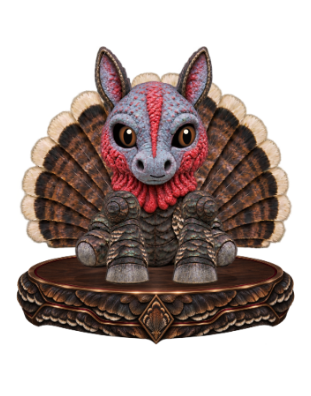
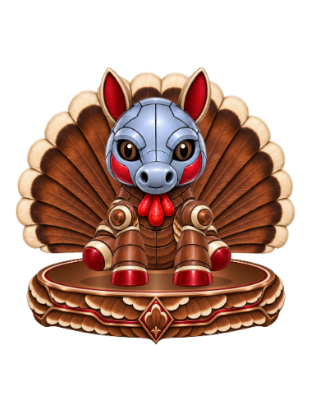
Refresh animated turkey Colt skin and matching display artwork

diff --git a/pet-studio.js b/pet-studio.js
@@ -69,7 +69,7 @@ function sync(){
 function heading(title,description,badge=''){return '<div class="section-heading"><div><h3>'+title+'</h3><p>'+description+'</p></div>'+(badge?'<span class="count">'+badge+'</span>':'')+'</div>'}
 function category(name){if(current==='nugget')return 'Food';if(current==='saber'||current==='highland')return 'Animals';if(current==='roblox')return 'Block characters';if(current==='labubu')return 'Plush';if(current==='eagle')return 'Birds';if(current==='gummy')return 'Candy';if(/Jack|Thanksgiving/.test(name))return 'Seasonal';if(/Axolotl|Panda|Tiger|Snake|Zebra|Crocodile|Camo/.test(name))return 'Animals';if(/Glitter|Metallic|Chrome|Copper|Bronze|Royal|Gold/.test(name))return 'Metallic';return 'Fantasy'}
 function skinItems(){return current==='nugget'?Object.entries(nuggetSkins).map(([id,s])=>({id,label:s.label})):current==='saber'?Object.entries(saberSkins).map(([id,s])=>({id,label:s.label})):current==='highland'?[{id:'Copper',label:'Copper Highland Cow'}]:current==='roblox'?Object.keys(robloxSkins).map(id=>({id,label:id})):current==='labubu'?Object.keys(labubuSkins).map(id=>({id,label:id})):current==='eagle'?[{id:'Bald Eagle',label:'Bald Eagle'}]:current==='gummy'?Object.keys(gummyBearSkins).map(id=>({id,label:id})):current==='colt'?Object.keys(roboColtSkins).map(id=>({id,label:id})):squishyColors}
-function gallery(){const items=skinItems().filter(x=>(filter==='All'||category(x.label)===filter)&&x.label.toLowerCase().includes(query.toLowerCase()));const chosen=current==='squishy'?state.squishy.color:current==='roblox'&&robloxOutfit(state.roblox)==='Custom outfit'?null:state[current].skin;dialog.querySelector('#gallery').innerHTML=items.map(x=>'<button class="skin-card" data-skin-choice="'+esc(x.id)+'" aria-pressed="'+(x.id===chosen)+'">'+(current==='nugget'?'<img data-nugget-thumb="'+esc(x.id)+'" alt="" loading="lazy">':current==='saber'?'<img src="'+esc(saberSkins[x.id].art)+'" data-saber-skin="'+esc(x.id)+'" alt="" loading="lazy">':current==='highland'?highlandMarkup().replace(/id="highland-/g,'id="highland-thumb-').replace(/url\(#highland-/g,'url(#highland-thumb-').replace('<svg ','<svg class="highland-skin-thumb" ').replace(/<text[\s\S]*?<\/text>/g,''):current==='labubu'?labubuThumbnail(x.id):'<img src="assets/pet-studio/'+current+'-'+slug(x.id)+'.png?v='+(current==='roblox'?'20261025-wardrobe-v3':current==='colt'&&x.id==='Thanksgiving Turkey'?'20261109-turkey-thumb-size-v4':'20261024-transparent')+'" alt="" loading="lazy">')+'<span class="skin-name">'+esc(x.label)+'</span>'+(chosen===x.id?'<span class="check" aria-hidden="true">✓</span>':'')+'</button>').join('')||'<div class="empty">No matching skins. Try another search.</div>';dialog.querySelectorAll('[data-skin-choice]').forEach(b=>b.onclick=()=>{change(current==='squishy'?'color':'skin',b.dataset.skinChoice);gallery()});if(current==='nugget')dialog.querySelectorAll('[data-nugget-thumb]').forEach(img=>{nuggetThumbnail(img.dataset.nuggetThumb).then(url=>{if(img.isConnected)img.src=url}).catch(()=>{if(img.isConnected)img.alt='Skin preview unavailable'})});}
+function gallery(){const items=skinItems().filter(x=>(filter==='All'||category(x.label)===filter)&&x.label.toLowerCase().includes(query.toLowerCase()));const chosen=current==='squishy'?state.squishy.color:current==='roblox'&&robloxOutfit(state.roblox)==='Custom outfit'?null:state[current].skin;dialog.querySelector('#gallery').innerHTML=items.map(x=>'<button class="skin-card" data-skin-choice="'+esc(x.id)+'" aria-pressed="'+(x.id===chosen)+'">'+(current==='nugget'?'<img data-nugget-thumb="'+esc(x.id)+'" alt="" loading="lazy">':current==='saber'?'<img src="'+esc(saberSkins[x.id].art)+'" data-saber-skin="'+esc(x.id)+'" alt="" loading="lazy">':current==='highland'?highlandMarkup().replace(/id="highland-/g,'id="highland-thumb-').replace(/url\(#highland-/g,'url(#highland-thumb-').replace('<svg ','<svg class="highland-skin-thumb" ').replace(/<text[\s\S]*?<\/text>/g,''):current==='labubu'?labubuThumbnail(x.id):'<img src="assets/pet-studio/'+current+'-'+slug(x.id)+'.png?v='+(current==='roblox'?'20261025-wardrobe-v3':current==='colt'&&x.id==='Thanksgiving Turkey'?'20261109-turkey-finish-v6':'20261024-transparent')+'" alt="" loading="lazy">')+'<span class="skin-name">'+esc(x.label)+'</span>'+(chosen===x.id?'<span class="check" aria-hidden="true">✓</span>':'')+'</button>').join('')||'<div class="empty">No matching skins. Try another search.</div>';dialog.querySelectorAll('[data-skin-choice]').forEach(b=>b.onclick=()=>{change(current==='squishy'?'color':'skin',b.dataset.skinChoice);gallery()});if(current==='nugget')dialog.querySelectorAll('[data-nugget-thumb]').forEach(img=>{nuggetThumbnail(img.dataset.nuggetThumb).then(url=>{if(img.isConnected)img.src=url}).catch(()=>{if(img.isConnected)img.alt='Skin preview unavailable'})});}
 function choices(key,items){const selected=current==='roblox'&&['top','pants'].includes(key)&&(!state[current][key]||state[current][key]==='skin')?state[current].skin:state[current][key];return '<div class="choices">'+items.map(([id,label])=>'<button data-choice-key="'+key+'" data-choice="'+id+'" aria-pressed="'+(selected===id)+'">'+label+'</button>').join('')+'</div>'}
 function toggle(key,label,desc){return '<label class="option-row"><span><strong>'+label+'</strong><p>'+desc+'</p></span><input type="checkbox" data-toggle="'+key+'" '+(state[current][key]?'checked':'')+'></label>'}
 function render(){content.setAttribute('aria-labelledby','studio-tab-'+tab);dialog.querySelectorAll('[data-tab]').forEach(b=>{b.setAttribute('aria-selected',b.dataset.tab===tab);b.tabIndex=b.dataset.tab===tab?0:-1});const p=state[current];

diff --git a/robo-colt/skins.js b/robo-colt/skins.js
@@ -1,6 +1,6 @@
 /* Skins use fitted painted atlases or original-art filters; accessories remain independent. */
 window.roboColtSkins = {
- 'Thanksgiving Turkey':{accent:'#b99958',light:'#f6e8ca',dark:'#55442b',tint:[.5,.36,.2],armor:[.8,.8,.72],artwork:'robo-colt/parts-turkey-v4.png',platformArtwork:'robo-colt/platform-turkey-v1.png',nameplateArtwork:'robo-colt/nameplate-turkey-v1.png',bounds:[[114,7,620,677],[846,161,1056,651],[208,698,433,1190],[480,700,1238,1192]],face:{eyes:[[277,276],[464,276]],mouth:[371,399,.85]},description:'Realistic charcoal turkey plumage, cream-barred feathers, blue-and-red facial skin, and a feathered tail on the original Robo-Colt shape.'},
+ 'Thanksgiving Turkey':{accent:'#b99958',light:'#f6e8ca',dark:'#55442b',tint:[.5,.36,.2],armor:[.8,.8,.72],artwork:'robo-colt/parts-turkey-v6.png',platformArtwork:'robo-colt/platform-turkey-v2.png',nameplateArtwork:'robo-colt/nameplate-turkey-v2.png',bounds:[[112,1,610,677],[835,156,1060,655],[206,696,432,1194],[484,706,1232,1195]],face:{eyes:[[266,277],[452,277]],mouth:[358,399,.85]},description:'Blue-silver face plates, feather-textured bronze armor, crimson hooves and wattle, and a cream-tipped turkey fan on the original animated Robo-Colt model.'},
  Axolotl:{accent:'#ff79ad',light:'#fff0f6',dark:'#a73064',tint:[1,.32,.56],armor:[1.1,.92,1.02],artwork:'robo-colt/parts-axolotl-v1.png',bounds:[[144,18,632,672],[880,167,1094,649],[219,708,450,1193],[740,731,1196,1174]],face:{eyes:[[295,276],[484,276]],mouth:[390,400,1]},description:'Pearl-pink robot enamel, rosy freckles, and three feathery pink axolotl frills on each side.'},
  'Jack-o-Lantern':{accent:'#ffa42e',light:'#fff3a1',dark:'#a14a0f',tint:[1,.42,.035],armor:[.9,.76,1.05],artwork:'robo-colt/parts-jack-o-lantern-v4.png',bounds:[[127,15,642,677],[873,171,1084,653],[220,692,452,1195],[763,730,1187,1172]],description:'Hollow carved pumpkin armor with one warm inner glow, dimming for sleep and brightening on wake.'},
  Glitter:{accent:'#ffd65c',light:'#fffbe1',dark:'#9c681c',tint:[1,.72,.16],armor:[1.1,1.06,.92],artwork:'robo-colt/parts-glitter-v1.png',bounds:[[127,17,609,672],[851,165,1059,648],[209,699,434,1191],[761,734,1185,1170]],description:'Reflective gold-flake enamel, champagne sparkles, and polished graphite joints.'},
@@ -36,6 +36,8 @@ window.createRoboColtSkinPainter = function(pet){
  const tailSvg=pet.querySelector('#rc-tail svg'),tailGroup=pet.querySelector('#rc-tail');
  const tailLayout=Object.fromEntries(['x','y','width','height','viewBox'].map(key=>[key,tailSvg.getAttribute(key)]));
  const tailOrigin=tailGroup.style.transformOrigin;
+ const headClip=pet.querySelector('#rc-head-clip path'),torsoClip=pet.querySelector('#rc-torso-clip path');
+ const headOutline=headClip.getAttribute('d'),torsoOutline=torsoClip.getAttribute('d');
 
  // Position wrappers stay outside the blinking/scaling groups so animation
  // transforms cannot overwrite each artwork's facial alignment.
@@ -117,9 +119,12 @@ window.createRoboColtSkinPainter = function(pet){
   if(last===skin)return skin;last=skin;
   const turkey=name===turkeyName;
   pet.querySelector('#rc-neck-joint').style.display=turkey?'none':'';
-  const tail=turkey?{x:-60,y:70,width:850,height:570,viewBox:'470 690 780 520'}:tailLayout;
+  const tail=turkey?{x:-103,y:13,width:935,height:627,viewBox:'470 690 780 520'}:tailLayout;
   Object.entries(tail).forEach(([key,value])=>tailSvg.setAttribute(key,value));
   tailGroup.style.transformOrigin=turkey?'365px 640px':tailOrigin;
+  // The larger wattle belongs to the animated head, including its lower lobes.
+  headClip.setAttribute('d',turkey?'M0 0H700V425H470Q445 440 420 446V530H292V446Q278 438 264 425H0Z':headOutline);
+  torsoClip.setAttribute('d',turkey?'M0 425H264Q278 438 292 446V530H420V446Q445 440 470 425H650V685H0Z':torsoOutline);
 
   const face=skin.face||facePositions[name]||(skin.bounds?{eyes:[[274,276],[458,276]],mouth:[367,400,1]}:null);
   const bodyFit=fit(name,0);

diff --git a/index.html b/index.html
@@ -52,7 +52,7 @@
   <script src="dumpling-pet/accessories.js?v=20261018-accessory-fit-v19"></script>
   <script src="dumpling-pet/nameplate.js?v=20261031-deferred-art-v1"></script>
   <meta data-pet-runtime="colt" data-pet-runtime-style="robo-colt/interactive.css?v=20261109-turkey-live-size-v1">
-  <meta data-pet-runtime="colt" data-pet-runtime-script="robo-colt/skins.js?v=20261109-turkey-eyes-v1">
+  <meta data-pet-runtime="colt" data-pet-runtime-script="robo-colt/skins.js?v=20261109-turkey-finish-v6">
   <meta data-pet-runtime="colt" data-pet-runtime-script="robo-colt/accessories.js?v=20261031-lazy-accessories-v1">
   <meta data-pet-runtime="colt" data-pet-runtime-script="robo-colt/nameplate.js?v=20261109-turkey-v1">
   <meta data-pet-runtime="colt" data-pet-runtime-script="robo-colt/interactive.js?v=20261109-turkey-fan-v1">
@@ -88,7 +88,7 @@
   <meta data-pet-runtime="nugget" data-pet-runtime-script="nugget-pet/accessories.js?v=20261101-basket-sides-v1">
   <meta data-pet-runtime="nugget" data-pet-runtime-script="nugget-pet/rig.js?v=20261101-basket-sides-v7">
   <meta data-pet-runtime="nugget" data-pet-runtime-script="nugget-pet/interactive.js?v=20261031-curved-nameplate-v2">
-  <script src="pet-studio.js?v=20261109-turkey-thumb-size-v3"></script>
+  <script src="pet-studio.js?v=20261109-turkey-finish-v6"></script>
 <meta data-pet-runtime="eagle" data-pet-runtime-script="eagle-pet/flight-vest.js?v=20261025-beak-clear-v3"><script src="pet-accessories-approved.js?v=20261108-lazy-pets-v1"></script><script src="pet-runtime.js?v=20261108-lazy-pets-v1"></script><script src="companion-picker.js?v=20261108-lazy-pets-v1"></script>
 </body>
 </html>

diff --git a/work/verify-companion-picker.js b/work/verify-companion-picker.js
@@ -322,7 +322,7 @@ async function request(route, cookie='', body, method) {
     assert.equal(await roboPanel.isVisible(),true);
     assert.equal(Math.round((await roboPanel.boundingBox()).width),640);
     assert.equal(await roboPanel.locator('[data-setting="eye"]').count(),0);
-    assert.deepEqual(await roboPanel.locator('[data-setting="skin"]').allTextContents(),['Original','Ancient Bronze','Arctic','Axolotl','Camo','Candy Chrome','Carbon Racer','Copper Circuit','Crocodile','Deep Sea','Desert Relic','Emerald','Frostfire','Galaxy','Glitter','Jack-o-Lantern','Moonstone','Obsidian Ember','Panda','Porcelain','Rainbow','Rose Quartz','Royal','School Spirit','Snake','Tiger','Woodland Guardian','Zebra']);
+    assert.deepEqual(await roboPanel.locator('[data-setting="skin"]').allTextContents(),['Original','Ancient Bronze','Arctic','Axolotl','Camo','Candy Chrome','Carbon Racer','Copper Circuit','Crocodile','Deep Sea','Desert Relic','Emerald','Frostfire','Galaxy','Glitter','Jack-o-Lantern','Moonstone','Obsidian Ember','Panda','Porcelain','Rainbow','Rose Quartz','Royal','School Spirit','Snake','Thanksgiving Turkey','Tiger','Woodland Guardian','Zebra']);
     const skinGroup=roboPanel.locator('fieldset').first();
     while(!await skinGroup.getByRole('button',{name:'Woodland Guardian',exact:true}).isVisible())await skinGroup.getByRole('button',{name:'Next',exact:true}).click();
     await skinGroup.getByRole('button',{name:'Woodland Guardian',exact:true}).click();

diff --git a/robo-colt/TURKEY-ART.md b/robo-colt/TURKEY-ART.md
@@ -1,5 +1,25 @@
 # Thanksgiving Turkey Robo-Colt skin
 
+## Matching platform and mouth cleanup
+
+Current production assets: `parts-turkey-v6.png`, `platform-turkey-v2.png`, and `nameplate-turkey-v2.png`. All three were edited with the built-in image tool, preserving transparency and existing canvas proportions. The atlas retains the v5 registration and animation rig. The gallery thumbnail and review image were refreshed from the live renderer. Build and turkey browser checks passed, including greeting, dance, tail movement, sleep, saving/reloading, and switching back to Original.
+
+Final atlas prompt: Remove only the thin baked horizontal mouth line at the lower blue muzzle, replacing it seamlessly with smooth blue-silver shading. Preserve nostrils, muzzle silhouette, all four separate component positions, colors, outlines, empty eye sockets, feather fan, red wattle and transparency. The live animated mouth remains.
+
+Final platform prompt: Preserve the existing squat wide silhouette, elliptical perspective, transparent margins and centered medallion. Match the new turkey skin with smooth warm bronze top and edging, a cream inset ring, restrained glossy red accents, and neatly sculpted chestnut feather panels with cream tips and subtle barb texture. Use a bronze diamond medallion with crimson enamel and a feather motif. No text, character, floor or shadow.
+
+Final nameplate prompt: Preserve the original chamfered silhouette, proportions, margins and clear center for live lettering. Match the turkey skin using polished bronze framing, ivory cream trim, glossy red accents and orderly chestnut feather details with cream tips. Use concentric bronze joint bolts with cream rings and red centers at both ends. Keep the dark chestnut-bronze center blank and opaque; preserve transparency outside. No baked text.
+
+## November 9 clean armor revision
+
+Current asset: `parts-turkey-v5.png` (1254 × 1254, transparent), generated with the built-in image tool using the previous turkey atlas as the layout target, `parts-v1.png` as the mechanical model reference, and the supplied turkey preview as the material reference. Earlier revisions below describe the retained v4 asset.
+
+Final prompt: Make a production transparent four-part animation atlas in the exact existing layout: seated body without front legs at upper left, isolated front legs at upper right and lower left, detached upright turkey fan at lower right. Preserve Robo-Colt's mechanical geometry, pointed ears, horse muzzle, plate seams and neutral mouth. Paint pale blue metal face plates, red cheek panels and inner ears, feather-textured bronze armor, cream joint rings, red hooves, and a larger three-lobed red wattle. Keep both sockets empty for live animated eyes. Keep all pieces separate and preserve transparency. Render the brown tail fan with cream tips and fine feather barbs. No platform, lettering, background or assembled character.
+
+The shared skin painter registers each part independently and retains the existing leg, hoof, ear, head, eye and tail animation groups. Socket centers were measured from the new atlas and registered at (266,277) and (452,277). The fan is 10% larger than v4 while retaining its root pivot and gentle sway. Complementary head/torso clips keep the entire enlarged wattle attached to the moving head and restore the original clips when switching away. The gallery thumbnail is captured from the live renderer; the review image is `work/pet-studio-assets/colt-thanksgiving-turkey-preview.png`.
+
+Validation: build and turkey browser checks cover asset selection, eye alignment, wattle clipping, tail animation, greeting, dancing, sleep, persistence and restoration of Original.
+
 Asset: `parts-turkey-v4.png`, full-resolution transparent 1254 × 1254 PNG, generated with the built-in image tool from `parts-v1.png`.
 
 Final prompt direction: Preserve Robo-Colt horse anatomy, muzzle, pointed ears, joint segmentation, four-part atlas layout, empty eye sockets, and neutral mouth. Repaint surfaces with realistic charcoal turkey feathers, natural bronze/green iridescence, cream-and-black barring, pale blue facial skin, crimson caruncles, gray scaly hooves, and a swept cream-tipped turkey-feather tail. Keep actual transparency; no props, text, platform, or background.
